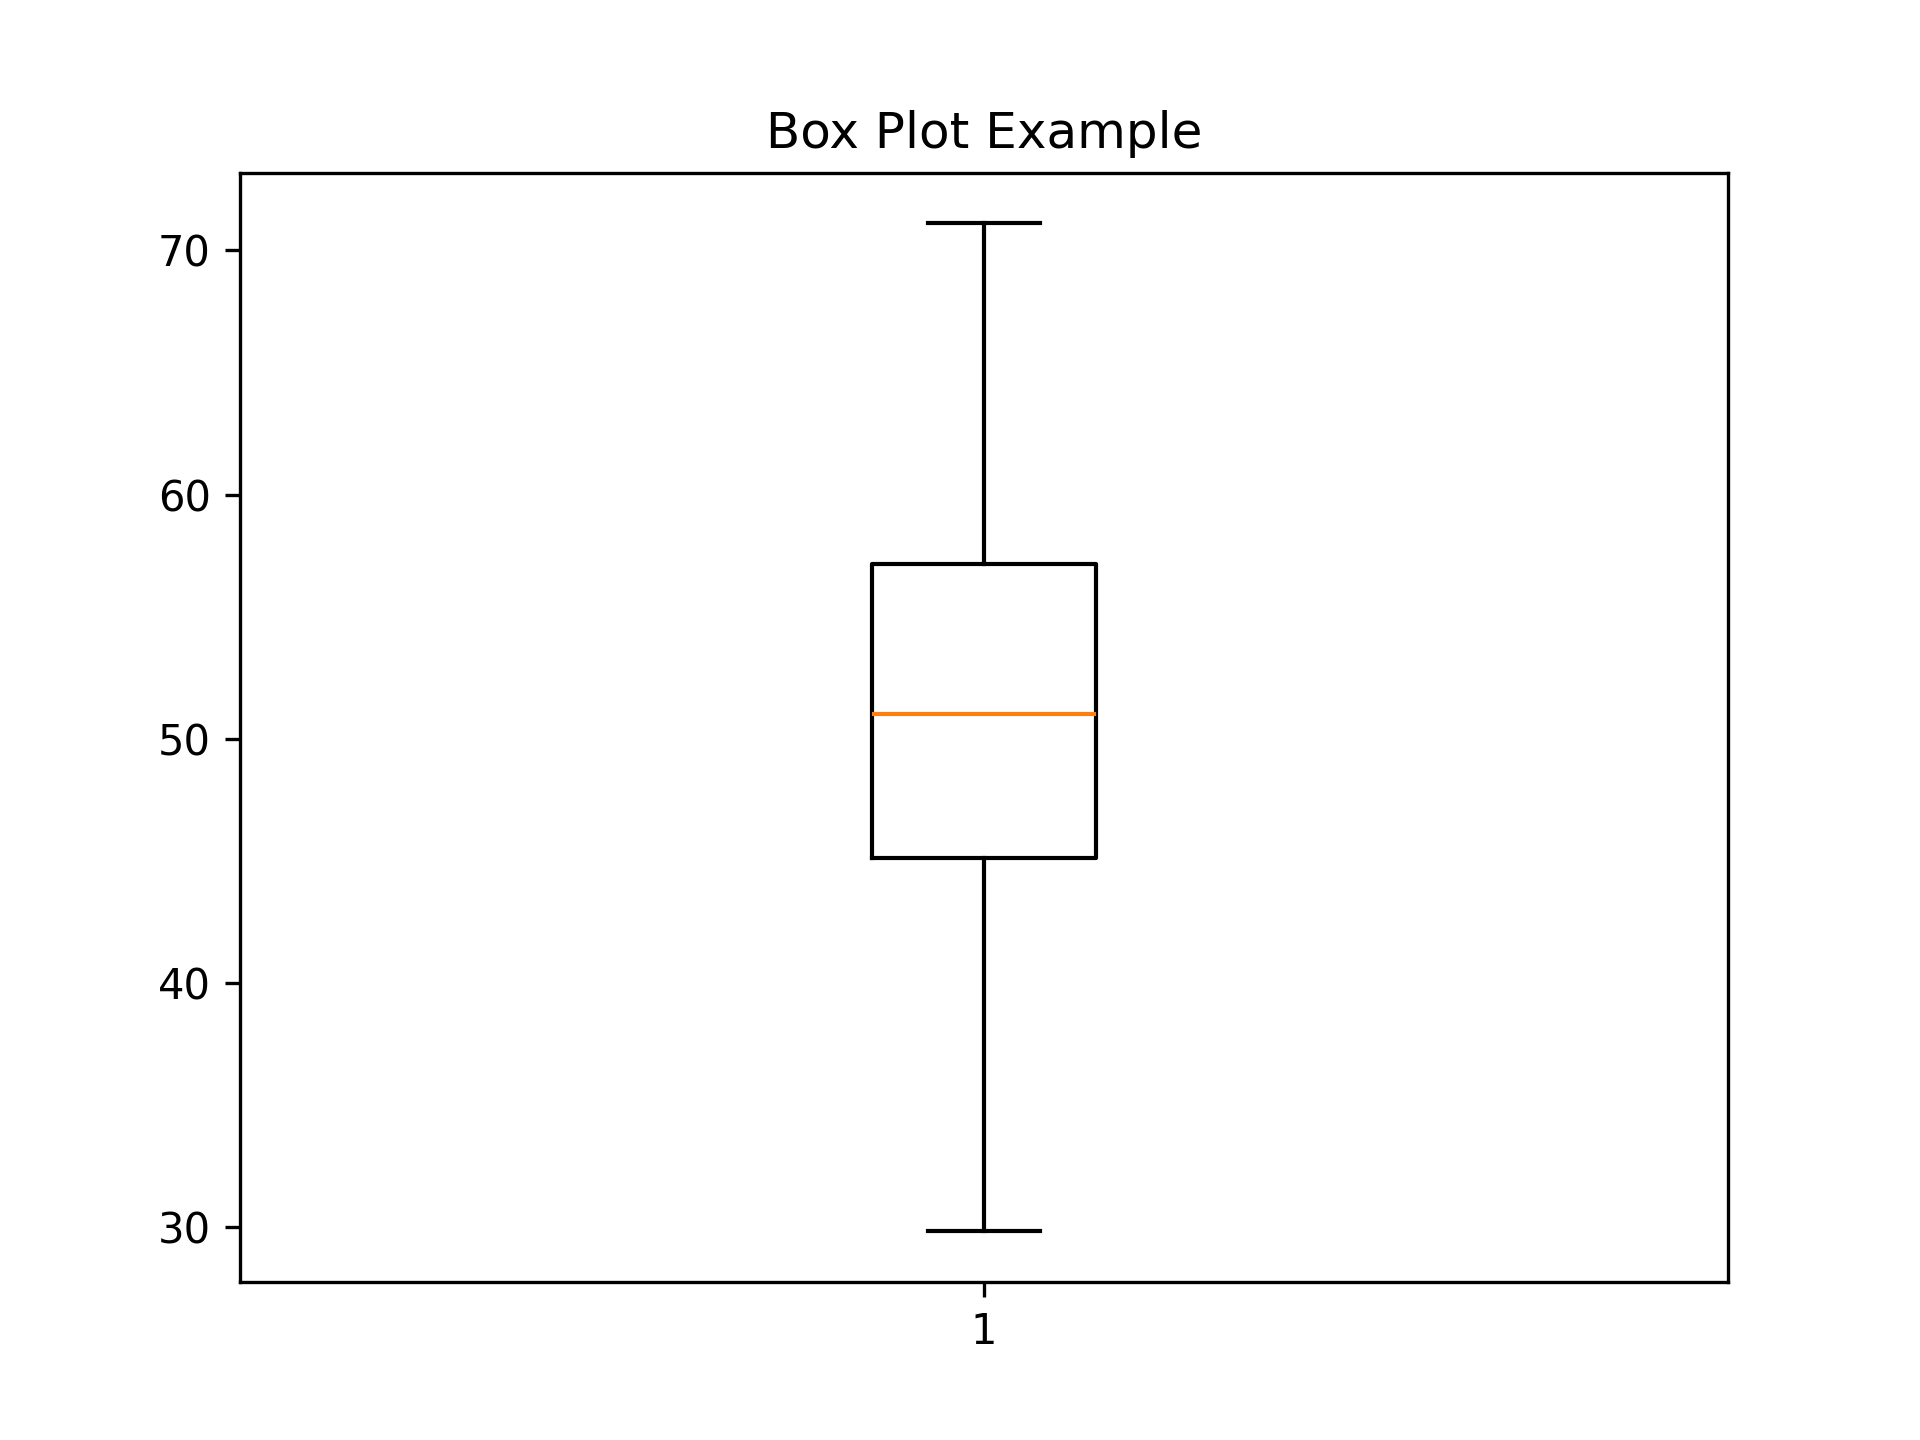
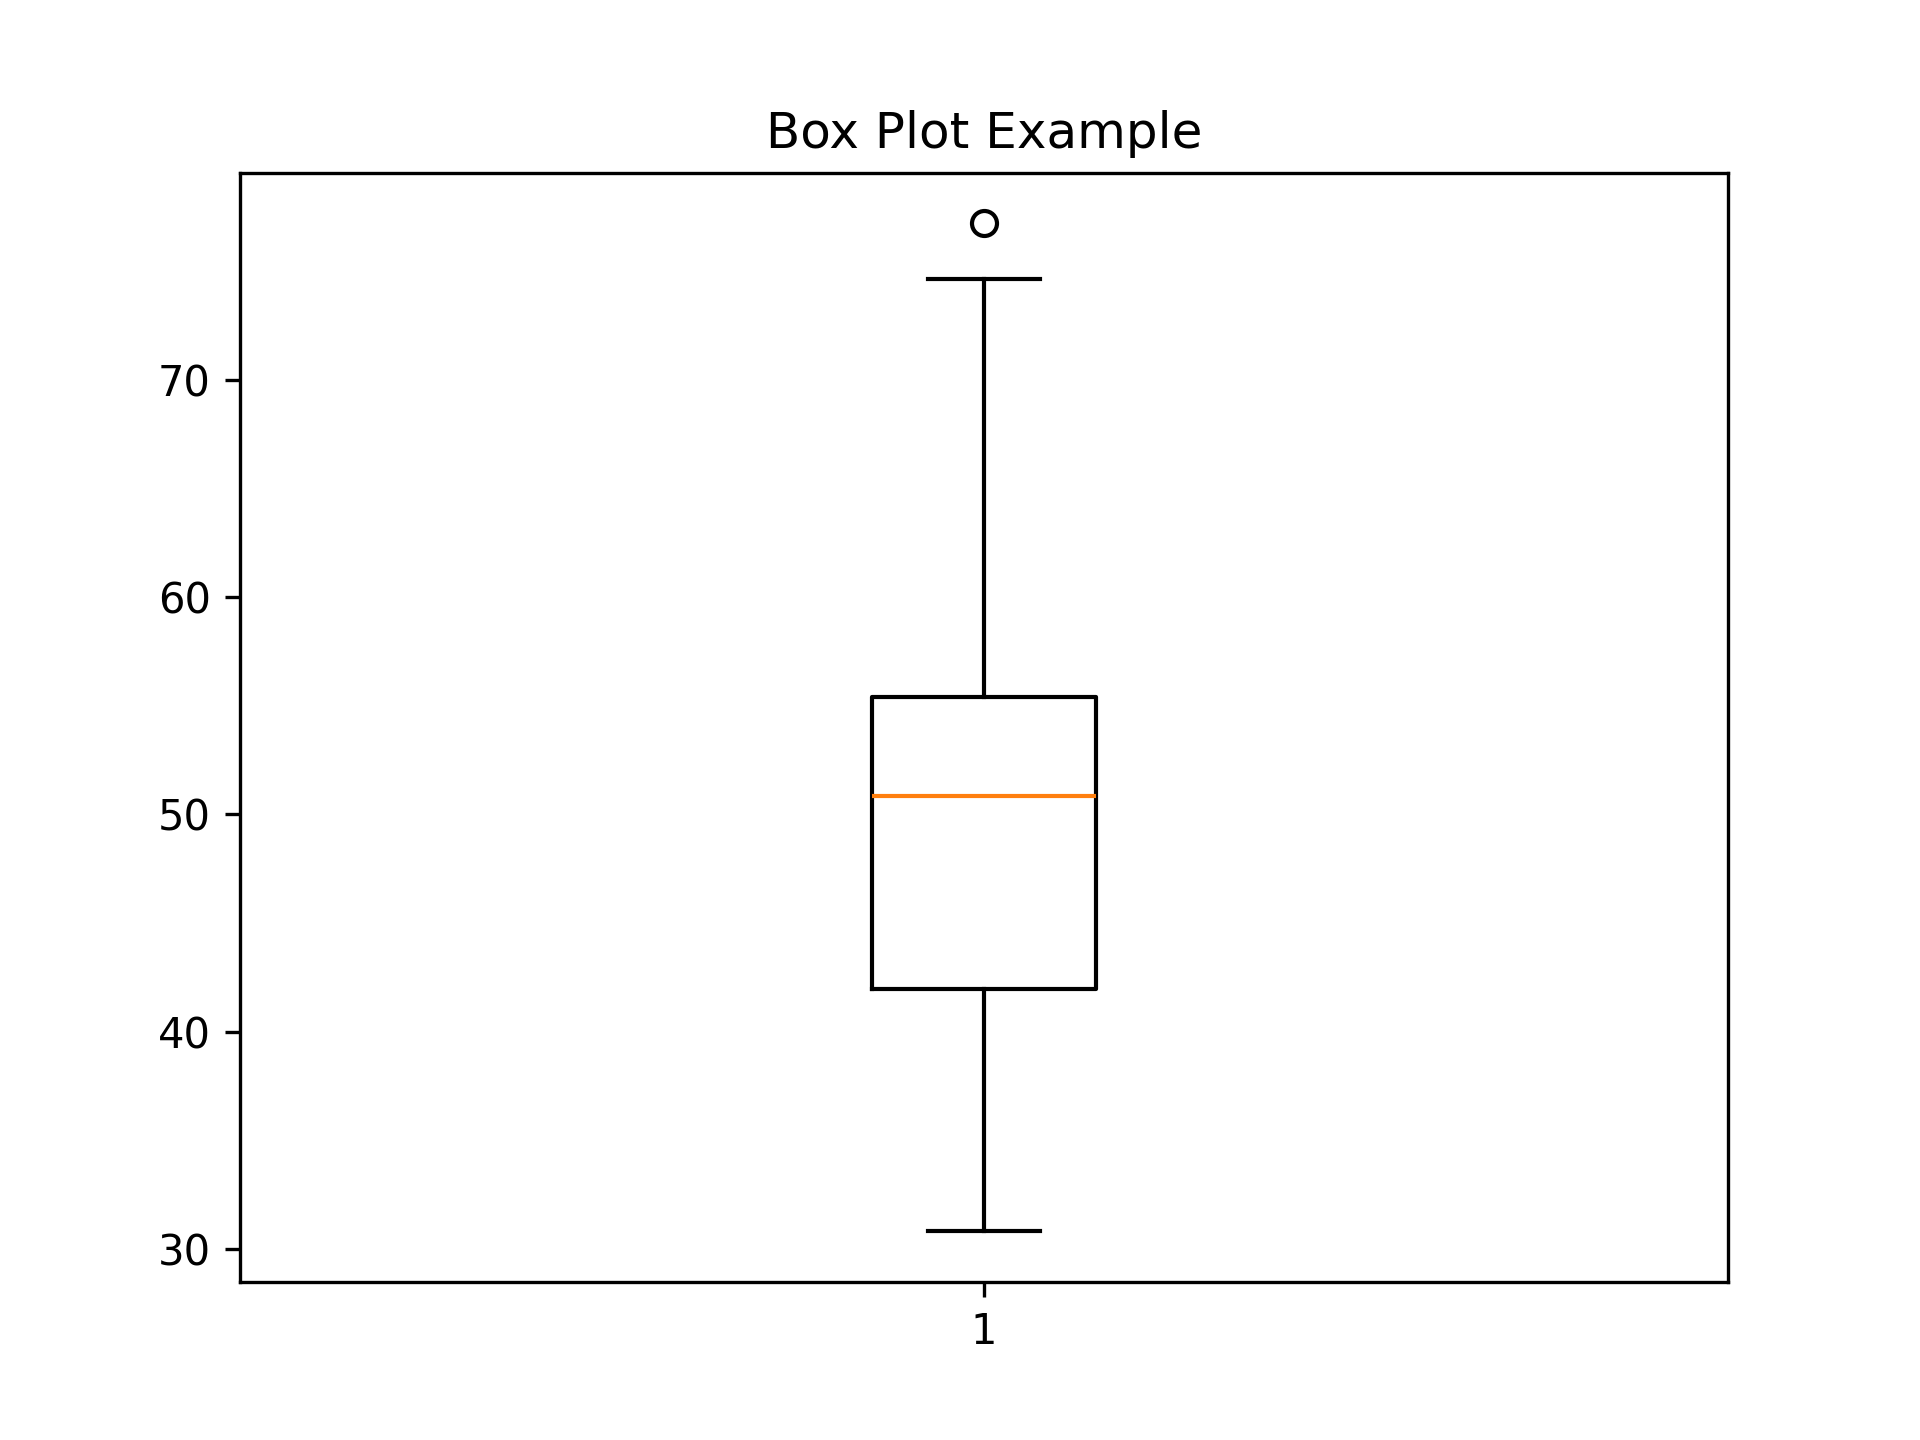
add outliers

diff --git a/scripts/types_of_plot/main.py b/scripts/types_of_plot/main.py
@@ -4,7 +4,7 @@ MAIN SCRIPT: Data Analysis and Visualization Project
 Executes each analysis section sequentially.
 """
 
-# from outliers1 import run_outlier_analysis
+from outliers import run_outlier_analysis
 # from quartiles import run_quartile_analysis
 from boxplots import run_boxplot_analysis
 # from scatterplots import run_scatter_analysis
@@ -17,7 +17,7 @@ if __name__ == "__main__":
     print("DATA ANALYSIS AND VISUALIZATION - EXECUTION START")
     print("="*80)
 
-    # run_outlier_analysis()
+    run_outlier_analysis()
     # run_quartile_analysis()
     run_boxplot_analysis()
     # run_scatter_analysis()

diff --git a/scripts/types_of_plot/outliers.py b/scripts/types_of_plot/outliers.py
@@ -1,0 +1,16 @@
+import numpy as np
+import pandas as pd
+
+def run_outlier_analysis():
+    print("\n" + "="*80)
+    print("OUTLIERS - DETECTION AND HANDLING")
+    print("="*80)
+
+    np.random.seed(42)
+    normal_data = np.random.normal(loc=50, scale=10, size=100)
+    outliers = np.array([5, 95, 100, 3, 98])
+    data = np.concatenate([normal_data, outliers])
+    df = pd.DataFrame({'values': data})
+
+    print(df.describe())
+    print("\nOutlier detection complete.\n")
